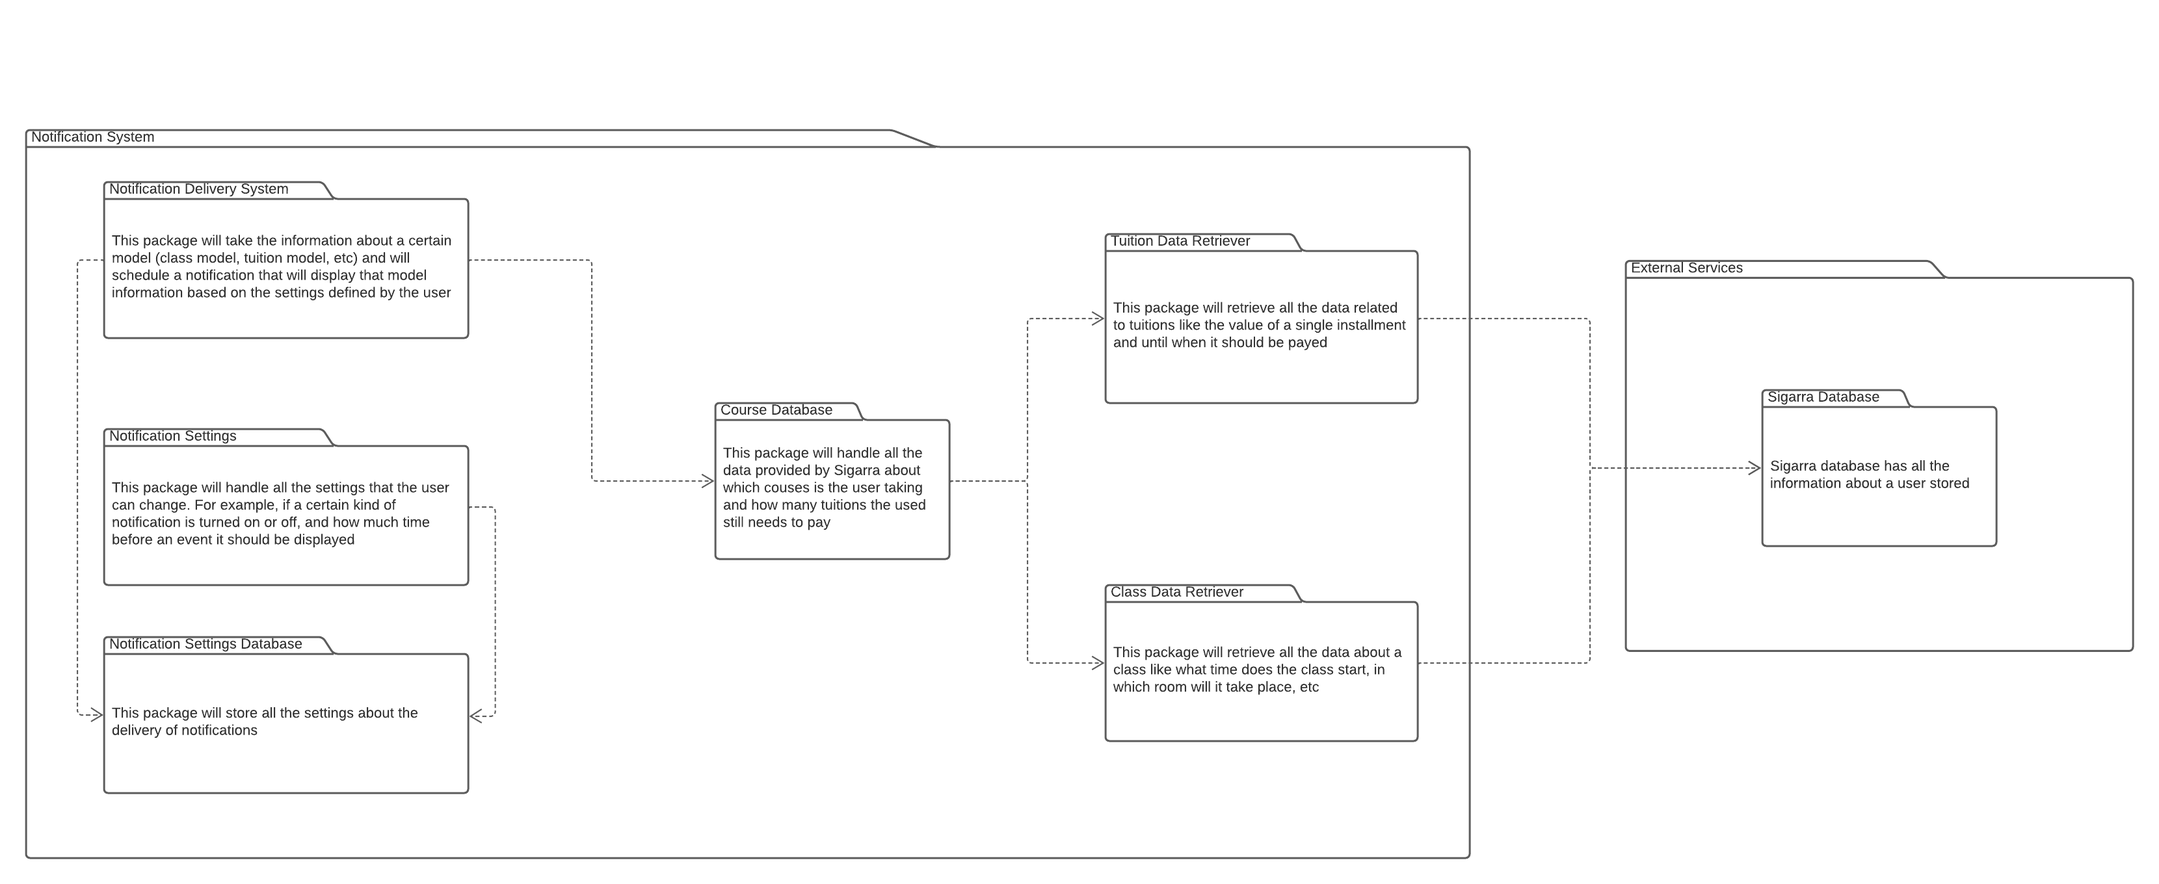
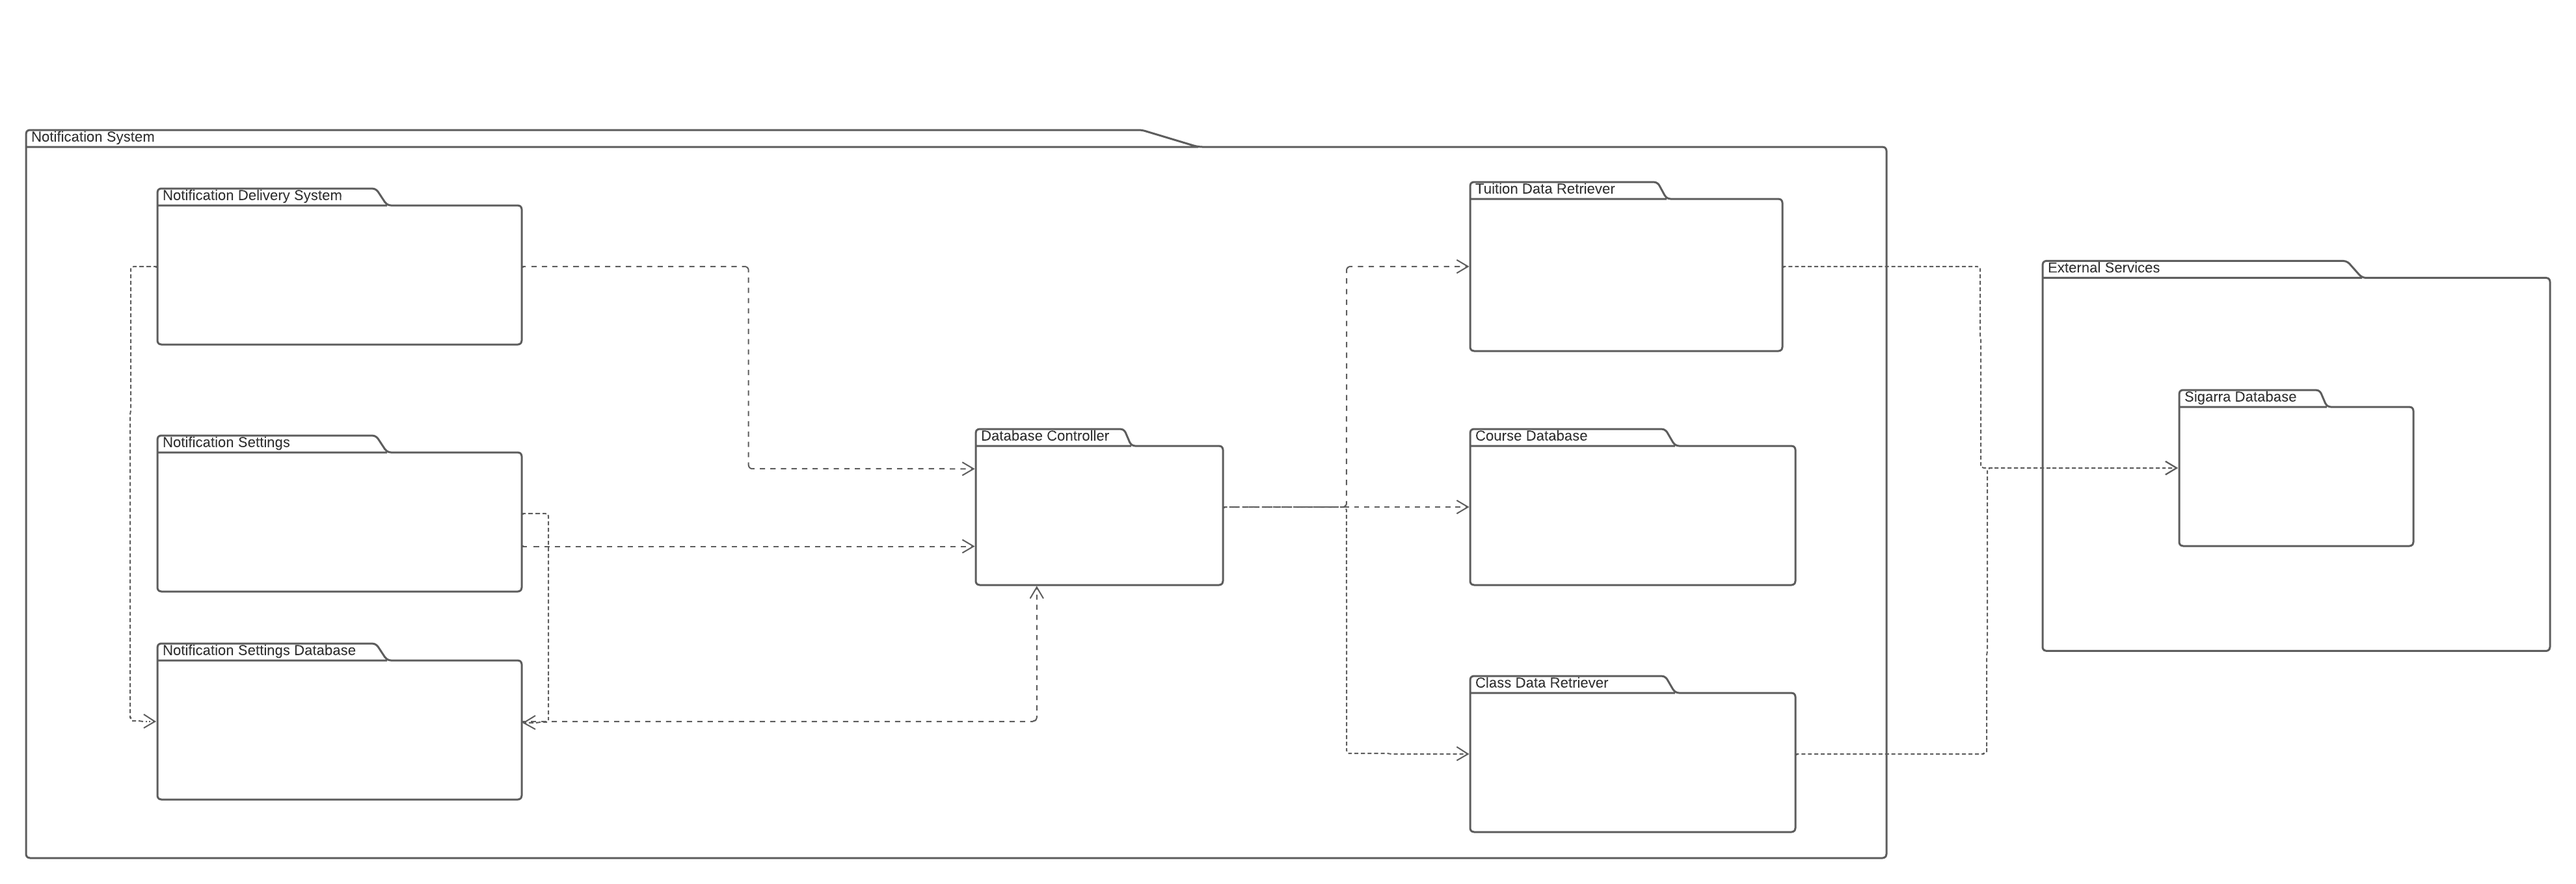
Improved docs

diff --git a/README.md b/README.md
@@ -111,6 +111,18 @@ The change of a notification's preferences/definitions by the user is done throu
 
 ![Package diagram](img/LogicalArchitecture.png)
 
+ - Notificaiton Delivery System: This package will take the information about a certain model (class model, tuition model, etc) and will schedule a notification that will display that model information based on the settings defined by the user
+
+ - Notification Settings: This package will handle all the settings that the user can change. For example, if a certain kind of notification is turned on or off, and how much time before an event it should be displayed
+
+ - Notification Settings Database: This package will store all the settings about the delivery of notifications
+ 
+ - Tuition Data Retriever: This package will retrieve all the data related to tuitions like the value of a single installment and until when it should be payed
+ 
+ - Course Database: This package will handle all the data provided by Sigarra about which couses is the user taking and how many tuitions the used still needs to pay 
+ 
+ - Class Data Retriever: This package will retrieve all the data about a class like what time does the class start, in which room will it take place, etc
+ Sigarra Database: Sigarra database has all the information about a user stored
 
 ### Physical Architecture
 
